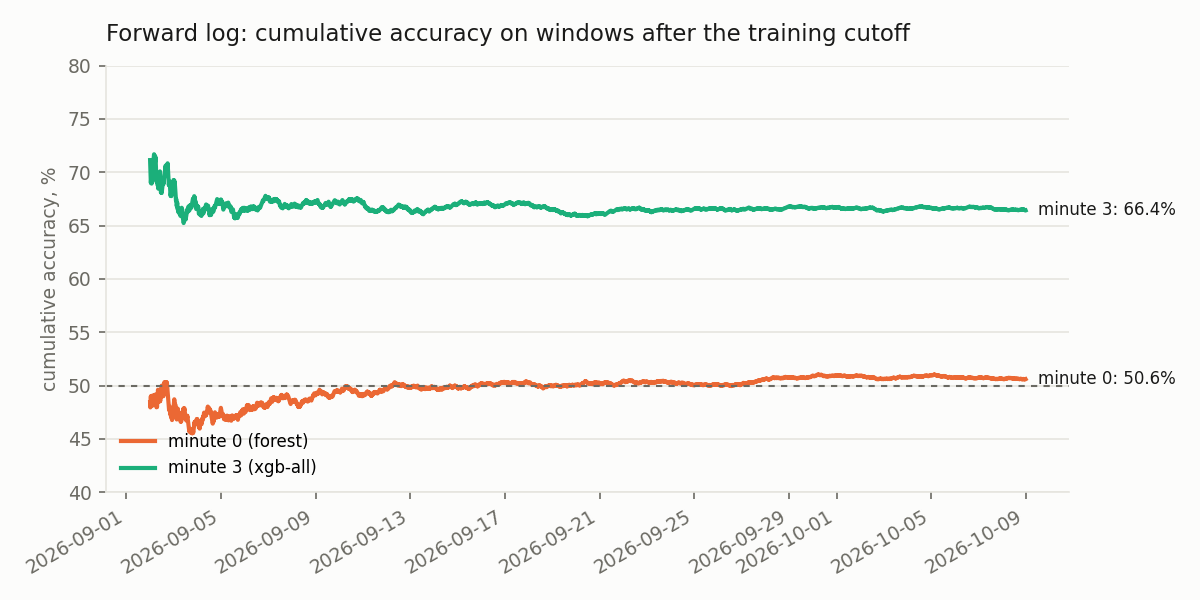
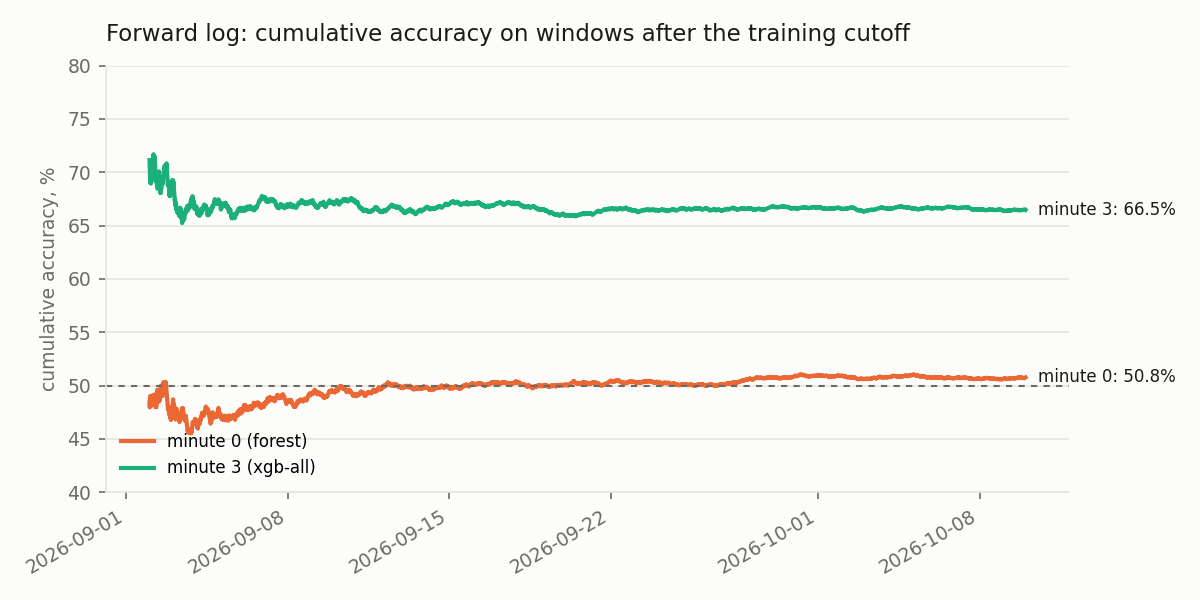
Forward log through 2026-10-09 (daily runner)

diff --git a/docs/btc_15m.md b/docs/btc_15m.md
@@ -161,12 +161,12 @@ Holdout (September 2026): 2026-09-01 to 2026-09-30.
 | 0 | forest | 2,880 | 50.94% |
 | 3 | xgb-all | 2,880 | 66.67% |
 
-Forward log (from October 2026): 2026-10-01 to 2026-10-08.
+Forward log (from October 2026): 2026-10-01 to 2026-10-09.
 
 | minute | model | windows | accuracy |
 |---|---|---|---|
-| 0 | forest | 768 | 49.35% |
-| 3 | xgb-all | 768 | 65.49% |
+| 0 | forest | 864 | 50.23% |
+| 3 | xgb-all | 864 | 65.86% |
 
 <!-- forward:end -->
 
